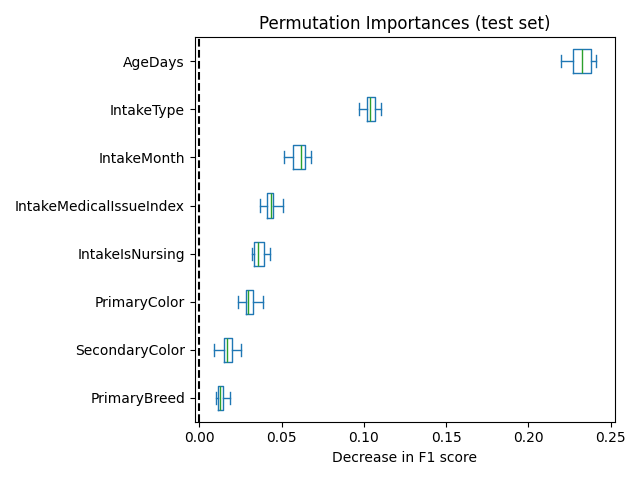
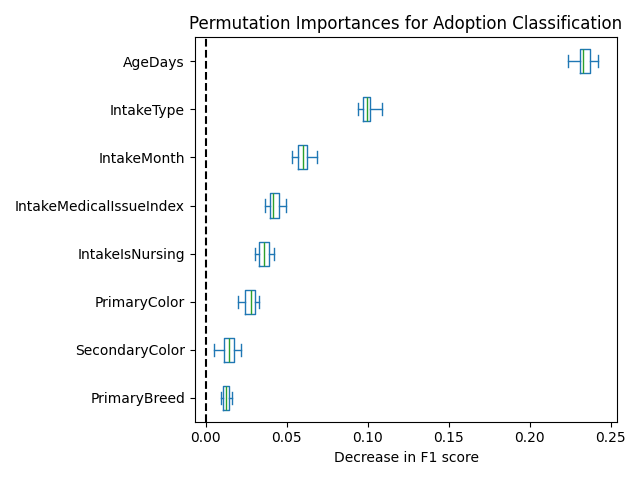
lots of plots!

diff --git a/model.py b/model.py
@@ -17,6 +17,9 @@ from sklearn.inspection import permutation_importance
 import pandas as pd
 import matplotlib.pyplot as plt
 
+import shap
+import numpy as np
+
 
 # pyright: reportUnknownMemberType=none
 
@@ -36,7 +39,7 @@ def eval():
         "SecondaryColor",
         "IntakeIsNursing",
         "IntakeMedicalIssueIndex",
-    ])
+    ]).to_pandas()
 
     y = (df.select("OutcomeType") == "ADOPTION").cast(pl.Int8).to_numpy().ravel()
 
@@ -44,7 +47,7 @@ def eval():
    
     predictions = {}
     probabilities = {}
-    models = [random_forest(), dummy_model(), gradient_boosting()]
+    models = [random_forest(), dummy_model(), gradient_boosting(), logistic_regression()]
 
     for model, name in models:
         _ = model.fit(X_train, y_train)
@@ -71,8 +74,61 @@ def eval():
 
     print("See rf_permutation_importance.png for feature importances.")
 
+    pipeline = models[0][0]
+
+    X_preprocessed = np.asarray(pipeline.named_steps["preprocessor"].transform(X).toarray(), dtype=np.float64)
+
+    feature_names = (
+        pipeline.named_steps["preprocessor"]
+                .get_feature_names_out()
+    )
+    rf = pipeline.named_steps["classifier"]
+
+    # subsample for SHAP to keep it fast
+    max_shap_samples = 1000
+    print(X_preprocessed.shape)
+    if X_preprocessed.shape[0] > max_shap_samples:
+        idx = np.random.RandomState(0).choice(
+            X_preprocessed.shape[0], size=max_shap_samples, replace=False
+        )
+        X_shap = X_preprocessed[idx]
+    else:
+        X_shap = X_preprocessed
+    print("Using SHAP input shape:", X_shap.shape)
+
+    print("Starting SHAP value computation...")
+    explainer = shap.TreeExplainer(model=rf, feature_names=feature_names)
+
+    # New-style SHAP API: explainer(...) returns a shap.Explanation
+    shap_values = explainer(X_shap)
+
+    # For binary classification, index class 1
+    fig = plt.figure(figsize=(15, 10))
+    shap.plots.violin(
+        shap_values[:, :, 1],
+        features=X_shap,
+        plot_type="layered_violin",
+        show=False,
+    )
+    fig.savefig("shap_summary_plot.png", bbox_inches="tight")
+    plt.close(fig)
+
+    print("Saved SHAP summary plot: shap_summary_plot.png")
+
+    print("Point #1")
+    # Clear plt
+    plt.clf()
+
+    for idx in range(10):
+        plt.clf()
+        shap.plots.waterfall(shap_values[idx, :, 1], show=False)
+        plt.title(f"SHAP Waterfall for Adoption Chance (Actual: {"ADOPTED" if y_test[idx] == 1 else "NOT ADOPTED"})")
+        plt.savefig(f"shap_force_plot_{idx}.png", bbox_inches="tight")
+        plt.close()
+
+
 def rf_importances(model, name, X_test, y_test):
-    X_test = X_test.to_pandas()
+    X_test = X_test
     result = permutation_importance(
         model, X_test, y_test, n_repeats=20, random_state=42, n_jobs=2, scoring="f1"
     )
@@ -98,7 +154,6 @@ def random_forest():
         "IntakeMonth",
         "IntakeMedicalIssueIndex",
     ]
-
     categorical_features = [
         "IntakeType",
         "PrimaryBreed",
@@ -109,7 +164,6 @@ def random_forest():
 
     numeric_transformer = Pipeline(steps=[
         ('imputer', SimpleImputer(strategy='median')),
-        ('scaler', StandardScaler())
     ])
 
     # Preprocessing for categorical data
@@ -173,6 +227,49 @@ def gradient_boosting():
         ('classifier', GradientBoostingClassifier())
     ])
     return (model, "Gradient Boosting Classifier")
+
+
+def logistic_regression():
+
+    numeric_features = [
+        "AgeDays",
+        "IntakeMonth",
+        "IntakeMedicalIssueIndex",
+    ]
+
+    categorical_features = [
+        "IntakeType",
+        "PrimaryBreed",
+        "PrimaryColor",
+        "SecondaryColor",
+        "IntakeIsNursing",
+    ]
+
+    numeric_transformer = Pipeline(steps=[
+        ('imputer', SimpleImputer(strategy='median')),
+        ('scaler', StandardScaler())
+    ])
+
+    # Preprocessing for categorical data
+    categorical_transformer = Pipeline(steps=[
+        ('imputer', SimpleImputer(strategy='most_frequent')),
+        ('onehot', OneHotEncoder(handle_unknown='ignore'))
+    ])
+
+    # Combine both types of preprocessing
+    preprocessor = ColumnTransformer(
+        transformers=[
+            ('num', numeric_transformer, numeric_features),
+            ('cat', categorical_transformer, categorical_features)
+        ])
+
+    # Full pipeline including the model
+    model = Pipeline(steps=[
+        ('preprocessor', preprocessor),
+        ('classifier', LogisticRegression())
+    ])
+    return (model, "Logistic Regression")
+
 
 
 def dummy_model():

diff --git a/regression.py b/regression.py
@@ -23,6 +23,7 @@ from sklearn.inspection import permutation_importance
 import pandas as pd
 import matplotlib.pyplot as plt
 import numpy as np
+import shap
 
 
 # pyright: reportUnknownMemberType=none
@@ -37,15 +38,14 @@ def eval():
     # Remove target values
     X = df.select([
         "IntakeType",
-        "YoungCatAgeDays",
-        "OldCatAgeYears",
+        "AgeDays",
         "IntakeMonth",
         "PrimaryBreed",
         "PrimaryColor",
         "SecondaryColor",
         "IntakeIsNursing",
         "IntakeMedicalIssueIndex",
-    ])
+    ]).to_pandas()
 
     y: ndarray[tuple[int], Any] = (df.select("TimeInShelterDays")).cast(pl.Int64).to_numpy().ravel()
     print(np.unique(y))
@@ -72,10 +72,68 @@ def eval():
     
         rf_importances(models[0][0], models[0][1], X_test, y_test)
 
+    # --- SHAP analysis for the Random Forest regressor ---
+    # Use the trained pipeline (first model) and compute SHAP values on the test set
+    pipeline = models[0][0]
+    rf = pipeline.named_steps["classifier"]
+
+    # Transform features via the pipeline preprocessor. Handle sparse outputs.
+    X_trans = pipeline.named_steps["preprocessor"].transform(X_test)
+
+    X_preprocessed = np.asarray(X_trans.toarray(), dtype=np.float64)
+
+    feature_names = pipeline.named_steps["preprocessor"].get_feature_names_out()
+
+    # Subsample for SHAP to keep computations fast
+    max_shap_samples = 1000
+    if X_preprocessed.shape[0] > max_shap_samples:
+        sample_indices = np.random.RandomState(0).choice(
+            X_preprocessed.shape[0], size=max_shap_samples, replace=False
+        )
+        X_shap = X_preprocessed[sample_indices]
+    else:
+        sample_indices = np.arange(X_preprocessed.shape[0])
+        X_shap = X_preprocessed
+
+    print("Using SHAP input shape:", X_shap.shape)
+
+    print("Starting SHAP value computation for regression model...")
+    explainer = shap.TreeExplainer(model=rf, feature_names=feature_names)
+    shap_values = explainer(X_shap)
+
+    # Summary violin plot
+    plt.clf()
+    fig = plt.figure(figsize=(15, 10))
+    shap.plots.violin(
+        shap_values,
+        features=X_shap,
+        plot_type="layered_violin",
+        show=False,
+    )
+    fig.savefig("shap_summary_plot_regression.png", bbox_inches="tight")
+    plt.close(fig)
+    print("Saved SHAP summary plot: shap_summary_plot_regression.png")
+
+    plt.clf()
+
+    # Waterfall plots for a few samples (aligned to test indices)
+    n_waterfalls = min(10, X_shap.shape[0])
+    for i in range(n_waterfalls):
+        sample_idx = sample_indices[i]
+        shap.plots.waterfall(shap_values[i], show=False)
+        # Use corresponding y_test value for context (y_test is a numpy array)
+        try:
+            actual_val = y_test[sample_idx]
+        except Exception:
+            actual_val = "N/A"
+        plt.title(f"SHAP Waterfall for Days till Adoption (Actual: {actual_val} days)")
+        plt.savefig(f"shap_force_plot_reg_{i}.png", bbox_inches="tight")
+        plt.close()
+
 
 
 def rf_importances(model, name, X_test, y_test):
-    X_test = X_test.to_pandas()
+    X_test = X_test
     result = permutation_importance(
         model, X_test, y_test, n_repeats=20, random_state=42, n_jobs=2, scoring="neg_mean_squared_error"
     )
@@ -97,8 +155,7 @@ def rf_importances(model, name, X_test, y_test):
 def random_forest():
 
     numeric_features = [
-        "YoungCatAgeDays",
-        "OldCatAgeYears",
+        "AgeDays",
         "IntakeMonth",
         "IntakeMedicalIssueIndex",
     ]
@@ -113,7 +170,6 @@ def random_forest():
 
     numeric_transformer = Pipeline(steps=[
         ('imputer', SimpleImputer(strategy='median')),
-        ('scaler', StandardScaler())
     ])
 
     # Preprocessing for categorical data
